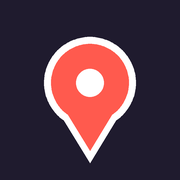
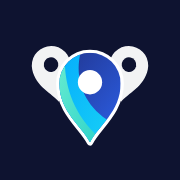
Add files via upload

Changed region(s): [[0.1667, 0.1944, 0.8333, 0.9167]]

diff --git a/index.html b/index.html
@@ -3,14 +3,15 @@
 <head>
   <meta charset="utf-8">
   <meta name="viewport" content="width=device-width, initial-scale=1, viewport-fit=cover, user-scalable=no">
-  <title>Nos Stickers</title>
-  <meta name="theme-color" content="#1f1b2e">
+  <title>TrioBros</title>
+  <meta name="theme-color" content="#0e1330">
   <meta name="apple-mobile-web-app-capable" content="yes">
   <meta name="mobile-web-app-capable" content="yes">
   <meta name="apple-mobile-web-app-status-bar-style" content="black-translucent">
-  <meta name="apple-mobile-web-app-title" content="Nos Stickers">
+  <meta name="apple-mobile-web-app-title" content="TrioBros">
   <link rel="manifest" href="manifest.json">
-  <link rel="icon" type="image/png" href="icons/icon-192.png">
+  <link rel="icon" type="image/png" href="icons/favicon.png">
+  <link rel="icon" type="image/svg+xml" href="icons/logo.svg">
   <link rel="apple-touch-icon" href="icons/apple-touch-icon.png">
   <link rel="stylesheet" href="https://unpkg.com/leaflet@1.9.4/dist/leaflet.css">
   <link rel="stylesheet" href="style.css">
@@ -20,7 +21,7 @@
   <!-- Écran : configuration manquante -->
   <section id="setup" class="screen hidden">
     <div class="card">
-      <div class="logo">📍</div>
+      <img class="logo" src="icons/logo.svg" alt="">
       <h1>Presque prêt</h1>
       <p>Il manque l'adresse et la clé Supabase dans <code>config.js</code>. Suis l'étape 2 du guide.</p>
     </div>
@@ -29,9 +30,9 @@
   <!-- Écran : connexion -->
   <section id="login" class="screen hidden">
     <form id="loginForm" class="card">
-      <div class="logo">📍</div>
-      <h1 class="app-name">Nos Stickers</h1>
-      <p class="muted">La carte de nos stickers à travers le monde.</p>
+      <img class="logo" src="icons/logo.svg" alt="">
+      <h1 class="app-name">TrioBros</h1>
+      <p class="muted">Nos stickers, partout dans le monde.</p>
       <label>Email<input id="email" type="email" autocomplete="email" required></label>
       <label>Mot de passe<input id="password" type="password" autocomplete="current-password" required></label>
       <p id="loginError" class="error hidden"></p>
@@ -45,7 +46,7 @@
 
     <header class="topbar">
       <div class="title">
-        <strong class="app-name">Nos Stickers</strong>
+        <strong class="app-name">TrioBros</strong>
         <span id="counter">…</span>
       </div>
       <div class="topbar-right">

diff --git a/sw.js b/sw.js
@@ -1,8 +1,8 @@
 // Garde l'app ouvrable même avec un mauvais réseau.
 // Les fichiers de l'app sont toujours pris en ligne en priorité (mises à jour immédiates).
-const CACHE = "nos-stickers-v3";
+const CACHE = "triobros-v1";
 const SHELL = ["./", "./index.html", "./style.css", "./app.js", "./config.js", "./manifest.json",
-  "./icons/icon-192.png", "./icons/icon-512.png"];
+  "./icons/icon-192.png", "./icons/icon-512.png", "./icons/logo.svg"];
 
 self.addEventListener("install", (e) => {
   e.waitUntil(caches.open(CACHE).then((c) => c.addAll(SHELL)));

diff --git a/style.css b/style.css
@@ -42,9 +42,8 @@ code { background: var(--line); padding: 1px 6px; border-radius: 6px; }
 }
 .card label { text-align: left; }
 .logo {
-  width: 64px; height: 64px; margin: 0 auto 14px; border-radius: 20px; background: var(--ink);
-  display: grid; place-items: center; font-size: 30px; transform: rotate(-6deg);
-  box-shadow: 0 0 0 4px #fff, 0 0 0 6px var(--line);
+  display: block; width: 84px; height: 84px; margin: 0 auto 14px; border-radius: 22px;
+  box-shadow: 0 10px 26px rgba(14, 19, 48, .28);
 }
 
 /* ---------- Formulaires ---------- */

diff --git a/app.js b/app.js
@@ -1,4 +1,4 @@
-/* Nos Stickers — carte partagée de stickers */
+/* TrioBros — carte partagée de stickers */
 (() => {
   "use strict";
 
@@ -140,7 +140,7 @@
 
   /* ---------------- Démarrage ---------------- */
   async function init() {
-    const name = cfg.APP_NAME || "Nos Stickers";
+    const name = cfg.APP_NAME && cfg.APP_NAME !== "Nos Stickers" ? cfg.APP_NAME : "TrioBros";
     document.title = name;
     document.querySelectorAll(".app-name").forEach((el) => (el.textContent = name));
 
